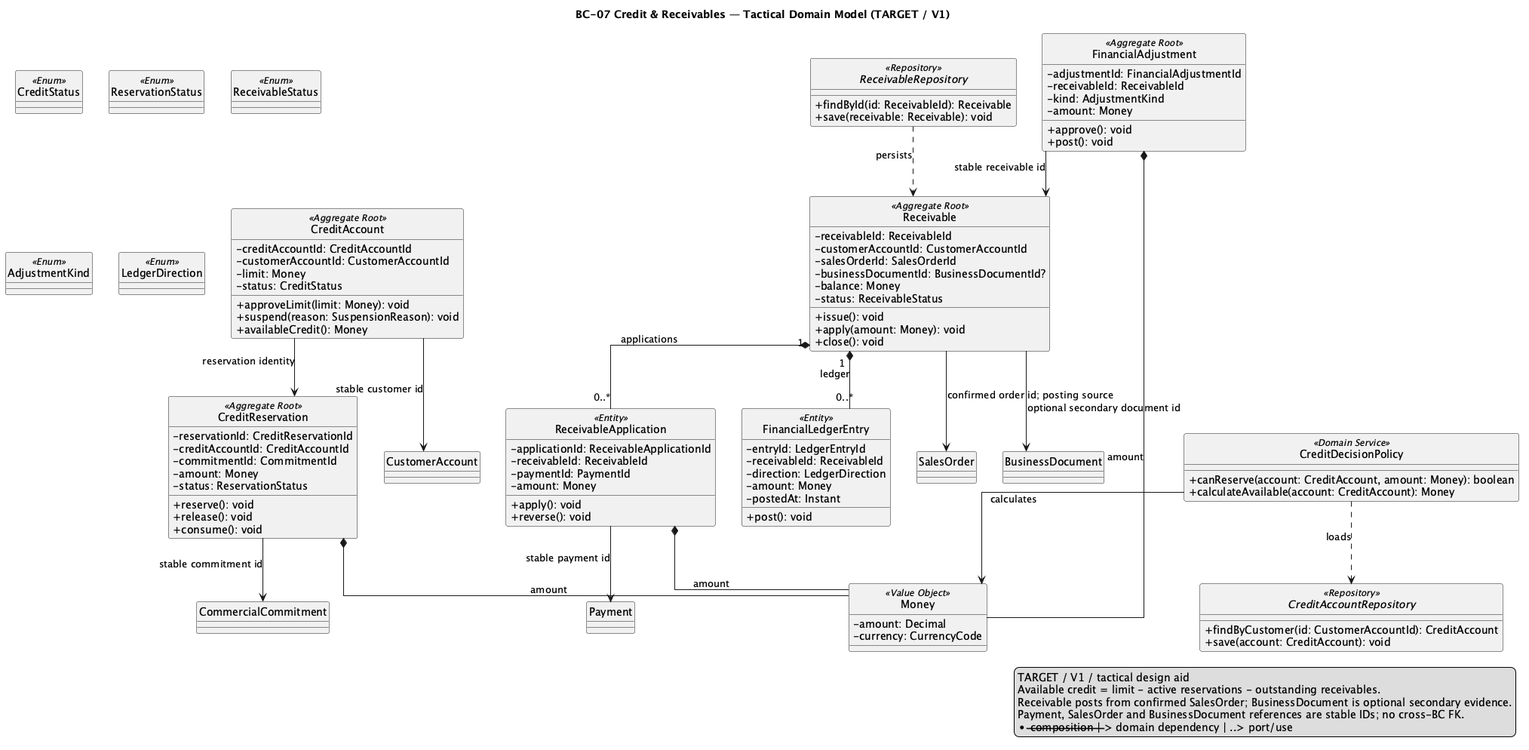
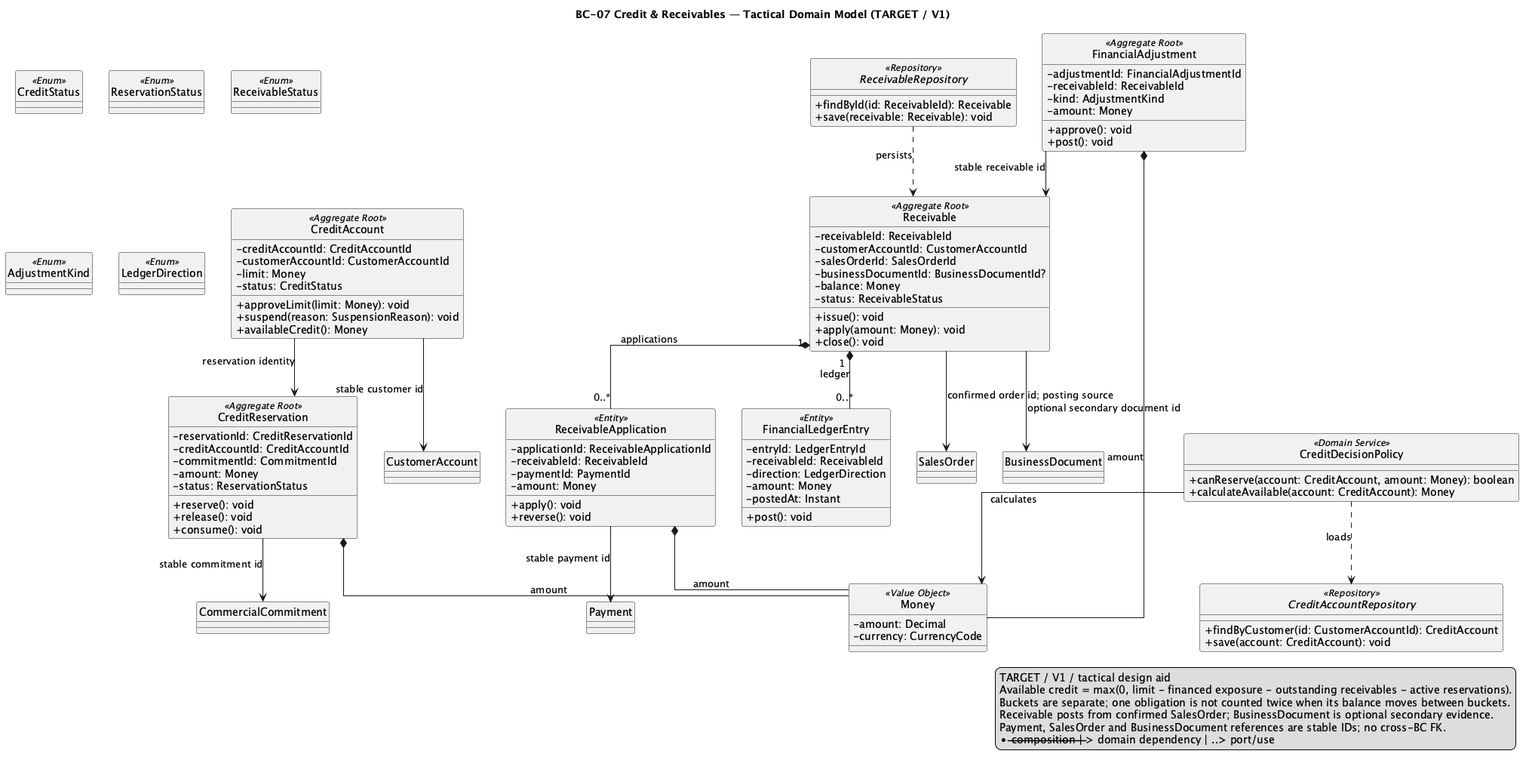
docs(domain): align credit use and workflow warehouse authority

diff --git a/01-shared/product/owner-decisions-2026-10.md b/01-shared/product/owner-decisions-2026-10.md
@@ -3,7 +3,7 @@ status: accepted
 maturity: BASELINED
 scope: cross-cutting
 owner: product
-last-reviewed: 2026-10-09
+last-reviewed: 2026-10-10
 ---
 
 # Owner decisions — 2026-10
@@ -36,6 +36,14 @@ Construction must preserve published migration history and user data. An additiv
 
 Relational models must document candidate keys and functional, multivalued and join dependencies. BCNF, 4NF and 5NF decompositions apply where those dependencies justify them and must preserve lossless reconstruction; immutable evidence snapshots remain explicitly distinguished from mutable master data. Normalization prevents update anomalies and redundancy; it does not replace authentication, authorization, database isolation or least-privilege credentials.
 
+## Credit policy configuration — Business Operations Manager and Company Owner
+
+On 2026-10-09 the Owner explicitly authorized the Business Operations Manager to configure a Customer Account's Credit Limit and activate or deactivate its Credit Account. The Owner subsequently confirmed that a Company Owner may perform the same narrowly scoped configuration under the same authority checks; the Business Operations Manager remains the primary operator and Company Owner is secondary. Both require a verified active `PLATFORM` membership, the dedicated `client.credit.configuration.manage` capability, and current Tenant/Workspace scope. The broader `client.credit.manage` capability does not itself authorize configuration. Role labels alone grant no authority.
+
+The configuration floor is the total current credit use: financed exposure plus outstanding Receivable balances plus active Credit Reservations. The Owner confirmed these are distinct outstanding buckets and must be summed; a balance shifting between financed exposure and a Receivable must not be counted twice. A lower limit beneath this total is rejected without partial change. Deactivation blocks new credit use; it does not erase Receivables, reservations or financial history.
+
+This is a narrow CAP-11 command grant and does not establish a global role hierarchy or grant authority over other Bounded Contexts. Existing reservations and receivable obligations retain their current lifecycle. The server remains authoritative for membership, capability, Tenant/Workspace scope, concurrency and the credit decision. This decision authorizes construction, not implementation, Technical Verification, Product Acceptance, System Acceptance or Production Readiness.
+
 
 ## Buyer wallet — supplier balance and separate commercial credit
 
@@ -64,3 +72,9 @@ The console is a surface over existing owners, not a twelfth Bounded Context. Pl
 ### Accepted support construction contract — 2026-10-09
 
 The Owner subsequently accepted initial customer-data support sessions restricted to read-only access, a maximum duration of one hour, explicit Company Owner consent and approval by a different named internal operator. The session must carry explicit Tenant/resource scope, immediate revocation and an immutable access audit. Impersonation, standing customer access and business mutations are excluded. Internal authentication, consent evidence, approval, expiry and fencing must be implemented and verified before any customer-data support route becomes accessible. Emergency break-glass remains governed separately by ADR-0017; this decision does not authorize bypassing its controls.
+
+## Explicit Warehouse access for SYSTEM_WORKFLOW
+
+On 2026-10-10 the Owner approved Company Owner and Tenant Administrator commands to grant and revoke Warehouse access explicitly for the active `SYSTEM_WORKFLOW` membership in the exact Tenant/Workspace. Each grant names one Warehouse; no global or automatic Warehouse grant is authorized. The target must resolve to the persisted `NEXA_AUTOMATION` identity with its active reserved `system_workflow` role.
+
+This is accepted construction TARGET. It authorizes explicit per-Warehouse access configuration only; it does not authorize impersonation, a human-issued token for the technical actor, a new system principal or automatic grant provisioning. Existing INTERNAL grant behavior remains. This decision does not establish implementation, Technical Verification, Product Acceptance, System Acceptance or Production Readiness.

diff --git a/01-shared/product/current-decisions.md b/01-shared/product/current-decisions.md
@@ -55,7 +55,8 @@ The [2026-10 Owner decisions](owner-decisions-2026-10.md) also authorize constru
 - One human has one Nexa identity. A human may have independent workforce and Buyer relationships with multiple Tenants; data remains tenant-scoped.
 - A Customer Account may exist without Portal identity. V1 allows one principal active Buyer Identity per Customer Account; multi-user Buyer organizations are future scope.
 - Buyer Relationship states are `PENDING / INVITED`, `ACTIVE`, `SUSPENDED` and `REVOKED`.
-- V1 has one Company Owner, zero or more Business Operations Managers and one Internal Web Platform. Tenant Administrator governs technical access; Company Owner governs company identity, sensitive organization data and workforce roles; Business Operations Manager governs cross-functional operations.
+- V1 has one Company Owner, zero or more Business Operations Managers and one Internal Web Platform. Tenant Administrator governs technical access; Company Owner governs company identity, sensitive organization data and workforce roles; Business Operations Manager governs cross-functional operations. The 2026-10 Owner decision grants the Business Operations Manager primary authority and Company Owner secondary authority for the narrow CAP-11 command to configure a Customer Account's Credit Limit and Credit Account active state. Both require a verified active `PLATFORM` membership, `client.credit.configuration.manage` and current Tenant/Workspace scope; this does not create a global role hierarchy. The broader `client.credit.manage` capability does not grant this configuration command.
+- Company Owner and Tenant Administrator may explicitly grant or revoke one Warehouse at a time for the exact active reserved `SYSTEM_WORKFLOW` membership representing `NEXA_AUTOMATION` in the current Tenant/Workspace. No automatic or global Warehouse grants are authorized. Existing INTERNAL grant behavior remains; this is accepted construction TARGET, not implementation or verification evidence.
 
 ## Mobile rebaseline
 
@@ -140,7 +141,7 @@ BC-07 owns the Financial Adjustment effect on obligation and exposure. BC-09 own
 
 ## Finance, documents, notifications and traceability
 
-- Available Credit = Credit Limit - Active Credit Reservations - Outstanding Receivable Balances.
+- Available Credit = Credit Limit - Financed Exposure - Outstanding Receivable Balances - Active Credit Reservations, bounded at zero. For CAP-11 configuration, used credit is the sum of those three separate current buckets; the Owner's 2026-10-09 decision confirms that a debt shift between financed exposure and a Receivable is not counted twice.
 - Credit purchase reserves credit at PR submission, or during the same logical SO confirmation for direct order. Commercial Commitment, complete Inventory Reservation backing and applicable Credit Reservation are all-or-nothing.
 - For credit/net terms, Receivable posts at Sales Order confirmation. Delivery completion or invoice issuance is not a universal receivable trigger.
 - PREPAID requires Payment Confirmed before Sales Order confirmation and physical fulfillment. IMMEDIATE may confirm SO before payment; payment is immediately due. Exact prepaid timeout is OPEN-NON-BLOCKER policy.

diff --git a/02-web/requirements/user-stories/WEB-EPIC-12-credit-receivables-payments.md b/02-web/requirements/user-stories/WEB-EPIC-12-credit-receivables-payments.md
@@ -22,12 +22,12 @@ This epic is part of the frozen Web catalog. It records product-level story iden
 | Status | CONFIRMED / V1 |
 | Product | Web |
 | Surface | Platform |
-| Actor | Business Operations Manager |
+| Actor | Business Operations Manager (primary); Company Owner (secondary) |
 | Epic | WEB-EPIC-12 — Credit, Receivables & Payments |
 | Priority | MUST |
 | Owning Bounded Context | BC-07 — Credit & Receivables |
 | Capability / family | Credit, receivables and payments |
-| Refinement | CATALOG FROZEN — ACCEPTANCE CRITERIA PENDING |
+| Refinement | ACCEPTANCE CRITERIA ACCEPTED — 2026-10-09 OWNER DECISION |
 
 ### User Story
 
@@ -35,11 +35,14 @@ As a Business Operations Manager,
 I want to configure Credit Limit,
 so that credit exposure is bounded before eligible commitments consume capacity.
 
-### Current Scope
+### Acceptance Criteria
 
-Product-level scope only; final behavior is refined against the accepted Product, DDD and business-rule canon.
+- Given a verified active `PLATFORM` membership with the canonical Business Operations Manager role (primary) or Company Owner role (secondary), current `client.credit.configuration.manage` capability and Tenant/Workspace scope, when the user opens credit configuration, then the server returns the current Credit Limit, currency, active state and separate used-credit buckets; the candidate directory returns only account id, commercial name and status. The broader `client.credit.manage` capability does not itself grant configuration authority.
+- When an authorized operator creates the first Credit Account configuration, then the request supplies an explicit currency, `If-None-Match: *` and an `Idempotency-Key`; when updating an existing configuration, it supplies the current `If-Match` version and an `Idempotency-Key`. BC-07 returns the authoritative saved values and version.
+- When a proposed Credit Limit is below financed exposure plus outstanding Receivable balances plus active Credit Reservations, then the server rejects the change without partial updates. These are distinct current buckets; a debt shift between financed exposure and a Receivable is not counted twice. Deactivation blocks new credit use but preserves existing reservations, Receivables and history.
+- When membership, capability, Tenant/Workspace scope, explicit currency or required version is missing or stale, then the API rejects the command and the UI preserves the last authoritative state for refresh. A retry reuses the same idempotency key; no client-side calculation or role label grants authority.
 
-No final Acceptance Criteria, Story Points, Sprints or academic traceability are authored in this catalog-freeze wave.
+These criteria apply the Owner-approved total-current-use floor. They do not change the reservation lifecycle, receivable posting trigger, role hierarchy, or Bounded Context ownership. Product Acceptance and later verification gates remain separate.
 
 ## WEB-US-105 — Review Customer credit exposure
 

diff --git a/01-shared/product/product-baseline.md b/01-shared/product/product-baseline.md
@@ -103,7 +103,7 @@ Fulfillment is broader than Picking: Allocate, Pick, Pack, Stage, Handover and R
 
 ## Basic Finance, documents, notifications and dashboard
 
-- V1 Finance is basic: Tenant-specific Credit Limit, Credit Reserved, Outstanding Receivables and Available Credit, hard credit block, payment terms, payment recording, Stripe-backed Nexa online payment direction and external/manual payment representation where needed. `Available Credit = Credit Limit - Credit Reserved - Outstanding Receivables`; transition from Credit Reserved to Outstanding Receivables must not double-count. If online money is captured but Sales Order creation fails, record `UNALLOCATED / RECONCILIATION_REQUIRED`, attempt an automatic refund, resolve on refund success or require operational intervention on refund failure, and retain financial history. Payment reported is not payment confirmed. Payment is not Stripe; V1 is not an arbitrary bring-your-own-online-gateway platform. Commercial credit, bank transfer, cash/COD and other direct Tenant-supported arrangements remain valid business methods.
+- V1 Finance is basic: Tenant-specific Credit Limit, financed exposure, Credit Reserved, Outstanding Receivables and Available Credit, hard credit block, payment terms, payment recording, Stripe-backed Nexa online payment direction and external/manual payment representation where needed. `Available Credit = max(0, Credit Limit - Financed Exposure - Outstanding Receivables - Active Credit Reservations)`; these are separate current-use buckets, and one obligation must not be counted twice when its balance moves between buckets. If online money is captured but Sales Order creation fails, record `UNALLOCATED / RECONCILIATION_REQUIRED`, attempt an automatic refund, resolve on refund success or require operational intervention on refund failure, and retain financial history. Payment reported is not payment confirmed. Payment is not Stripe; V1 is not an arbitrary bring-your-own-online-gateway platform. Commercial credit, bank transfer, cash/COD and other direct Tenant-supported arrangements remain valid business methods.
 - Buyer Portal exposes live Tenant-specific Credit Limit, Credit Reserved, Outstanding Receivables and Available Credit for the current supplier relationship. Buyer has no global Nexa-wide credit balance. Insufficient Available Credit remains a hard block. Existing implementation fields named `exposure` or `used` are AS-IS vocabulary, not the final Product model.
 - Full accounting, reconciliation, bank reconciliation, advanced receivables, statements and allocation/accounting depth are V2 unless later required.
 - V1 includes basic business documents. Historical document meaning must not depend on mutable master data; document snapshots/history preserve truth at issuance time. PDF may be regenerated from historical snapshot. SUNAT remains future.

diff --git a/01-shared/product/role-capability-matrix.md b/01-shared/product/role-capability-matrix.md
@@ -29,7 +29,7 @@ by the Website/onboarding boundary and are not workforce role columns here.
 | CAP-08 Receiving and warehouse operations | EXCEPTION AUTHORITY | NONE | OVERSIGHT | NONE | COMMAND; EXCEPTION AUTHORITY | QUERY | NONE | NONE |
 | CAP-09 Fulfillment, dispatch and delivery | OVERSIGHT | NONE | OVERSIGHT | QUERY | COMMAND; QUERY | COMMAND; EXCEPTION AUTHORITY | COMMAND; QUERY | QUERY |
 | CAP-10 Cold-chain evidence and disposition | EXCEPTION AUTHORITY | NONE | OVERSIGHT | NONE | COMMAND; EXCEPTION AUTHORITY | COMMAND; QUERY | COMMAND; QUERY | QUERY |
-| CAP-11 Credit and receivables | EXCEPTION AUTHORITY; OVERSIGHT | NONE | OVERSIGHT | QUERY | NONE | NONE | NONE | QUERY |
+| CAP-11 Credit and receivables | COMMAND*; EXCEPTION AUTHORITY; OVERSIGHT | NONE | COMMAND; OVERSIGHT | QUERY | NONE | NONE | NONE | QUERY |
 | CAP-12 Payments and correction | EXCEPTION AUTHORITY; OVERSIGHT | NONE | OVERSIGHT | QUERY | NONE | NONE | NONE | COMMAND; QUERY |
 | CAP-13 Business documents | OVERSIGHT | NONE | OVERSIGHT | QUERY | QUERY | QUERY | QUERY | QUERY |
 | CAP-14 Notifications | OVERSIGHT | COMMAND; OVERSIGHT | QUERY | QUERY | QUERY | QUERY | QUERY | QUERY |
@@ -46,5 +46,6 @@ by the Website/onboarding boundary and are not workforce role columns here.
 - Driver authority is limited to assigned Delivery work. Buyer authority is
   limited to the authorized supplier relationship.
 - Finance is a capability responsibility, not a new actor or Bounded Context.
+- CAP-11 configuration command is limited to configuring a Customer Account's Credit Limit and activating or deactivating its Credit Account under the [2026-10 Owner decision](owner-decisions-2026-10.md). Business Operations Manager is the primary operator; Company Owner is secondary. Both require verified active `PLATFORM` membership, `client.credit.configuration.manage` and current Tenant/Workspace scope. The broader `client.credit.manage` capability does not grant this configuration command. `*` marks this narrow Company Owner command; it grants no general role inheritance or cross-context authority.
 - The matrix is a target authorization projection. Current implementation
   support is recorded in [the compatibility baseline](../../04-delivery/compatibility-baseline-2026-08-29.md).

diff --git a/01-shared/domain/bounded-contexts/BC-07-credit-receivables/tactical-model.md b/01-shared/domain/bounded-contexts/BC-07-credit-receivables/tactical-model.md
@@ -43,7 +43,7 @@ coordinates BC-08 and BC-07 without a giant cross-context aggregate.
 | `FinancialLedgerEntry` | Entity / immutable fact | type, source ID, amount, occurredAt, correlation | none after append | durable financial history |
 | `Money` / `CreditLimit` | Value Objects | amount, currency/limit | `subtract()`, `isSufficient()` | no negative balance |
 | `ReceivableStatus` / `ReservationStatus` | Enum | `OPEN`, `PARTIALLY_SETTLED`, `SETTLED`, `WRITTEN_OFF`; `ACTIVE`, `RELEASED`, `CONSUMED`, `EXPIRED` | none | lifecycle constraints |
-| `CreditExposurePolicy` | Domain Service | none | `calculateAvailable(limit, reservations, receivables)` | formula authority |
+| `CreditExposurePolicy` | Domain Service | none | `calculateAvailable(limit, financedExposure, receivables, reservations)` | formula authority |
 | `ReceivablePostingPolicy` | Domain Service | none | `postAtSalesOrderConfirmation()` | policy, no source aggregate ownership |
 | `CreditAccountRepository` / `ReceivableRepository` | Repository interfaces | none | `save()`, `byId()` | roots only |
 | `CreditReservationEstablished` / `ReceivablePosted` | Domain Events | IDs, amount, occurredAt | immutable facts | existing published events only |
@@ -79,8 +79,10 @@ coordinates BC-08 and BC-07 without a giant cross-context aggregate.
 
 ## Invariants and transaction boundaries
 
-- Available Credit = Credit Limit − Active Credit Reservations − Outstanding
-  Receivable Balances.
+- Available Credit = max(0, Credit Limit − Financed Exposure − Outstanding
+  Receivable Balances − Active Credit Reservations). These are separate
+  current-use buckets; one obligation is not counted twice when its balance
+  moves between buckets.
 - Credit purchase reserves at PR submission; direct order reserves during same
   logical SO confirmation.
 - Credit/net Receivable posts at SO confirmation. Delivery completion or

diff --git a/01-shared/domain/bounded-contexts/BC-07-credit-receivables/README.md b/01-shared/domain/bounded-contexts/BC-07-credit-receivables/README.md
@@ -13,7 +13,7 @@ last-reviewed: 2026-09-20
 | Purpose / classification | Owns credit risk, reservation, formal obligation and correction; Supporting. Strategic importance: protects commercial acceptance and financial consistency. |
 | Language / actors | Credit Account, Credit Limit, Credit Reservation, Available Credit, Receivable, Financial Adjustment. Actors: Business Operations Manager, Sales Representative, B2B Buyer. |
 | Responsibilities / data | Credit policy, reservations, available credit formula, Receivable posting at confirmed SalesOrder/application and explicit financial corrections; BusinessDocument reference is secondary and optional. |
-| Invariants | Available Credit is explicit; reservation and receivable do not double count; corrections preserve history; Payment != Receivable. |
+| Invariants | Available Credit = max(0, Credit Limit - Financed Exposure - Outstanding Receivable Balances - Active Credit Reservations); these are separate current-use buckets, and one obligation is not counted twice when its balance moves between buckets; corrections preserve history; Payment != Receivable. |
 | Commands | SetCreditLimit, EvaluateCredit, EstablishCreditReservation, ConvertReservationToReceivable, ApplyPayment, ReleaseCredit, RecordFinancialAdjustment. |
 | Domain / published events | Internal: CreditEvaluated, CreditReservationReleased, PaymentApplied, FinancialAdjustmentRecorded. Published: CreditReservationEstablished.v1, ReceivablePosted.v1. |
 | Upstream / downstream | Upstream: Sales Commitment and Payments facts. Downstream: Sales Commitment, Documents, Portal/Platform and Traceability. Sync: reservation decision; async: payment/receivable announcements. |

diff --git a/01-shared/data/data-architecture.md b/01-shared/data/data-architecture.md
@@ -38,7 +38,7 @@ Financial Adjustment business effect belongs to Credit & Receivables; an issued 
 - Submitted PR and confirmed SO retain price, terms, line, delivery and commercial snapshots. Inventory facts retain lot, expiry, quantity, hold/disposition and allocation evidence. Payment and document facts retain provider/reference identity without secrets.
 - `Sellable Availability = usable physical on-hand - active Commercial Commitments - Safety Stock` at business scope. Inventory Reservation backing distributes protected demand across SKU + Warehouse authorities without double counting. HOLD, QUARANTINE, DAMAGED/WASTE, EXPIRED and IN_TRANSIT are excluded from usable sellable quantity.
 - Inventory Availability owns Inventory Reservation backing, deterministic Warehouse sourcing and Physical Allocation authority; Fulfillment & Delivery owns execution. One demand line may be backed by multiple eligible Warehouses. Physical Allocation cannot exceed committed/backed quantity or usable physical quantity.
-- Credit formula is `Credit Limit - Active Credit Reservations - Outstanding Receivable Balances`. Reservation-to-receivable transition is explicit and cannot double count.
+- Available Credit is `max(0, Credit Limit - Financed Exposure - Outstanding Receivable Balances - Active Credit Reservations)`. These are separate current-use buckets; one obligation must not be counted twice when its balance moves between buckets.
 - Append-only traceability and issued documents preserve history. Retention/deletion/anonymization periods are Production/Legal Gate decisions; no destructive deletion is assumed.
 
 ## Migration policy

diff --git a/01-shared/domain/business-rules/README.md b/01-shared/domain/business-rules/README.md
@@ -50,7 +50,7 @@ Canonical V1 invariants. Ownership and lifecycle details are in [Strategic DDD](
 ## Cold-chain, credit, payments and finance
 
 - Cold-chain is optional per Tenant/SKU. V1 temperature capture is manual. Excursion places affected quantity on HOLD pending `ColdChainDisposition`. `REJECT` means inventory is not accepted for normal sellable/fulfillment use; `RETURN_TO_SUPPLIER` is a possible physical action after that outcome. No automatic destruction.
-- Available Credit = Credit Limit - Active Credit Reservations - Outstanding Receivable Balances. Reservations and receivables must not double count.
+- Available Credit = max(0, Credit Limit - Financed Exposure - Outstanding Receivable Balances - Active Credit Reservations). These are separate current-use buckets; one obligation must not be counted twice when its balance moves between buckets.
 - Credit purchase reserves at PR submission; direct order reserves during same SO confirmation. Commitment and credit reservation are all-or-nothing.
 - Credit/net Receivable posts at Sales Order confirmation. Delivery or document issuance is not a universal trigger.
 - PREPAID requires Payment Confirmed before Sales Order confirmation and physical fulfillment. IMMEDIATE permits SO before payment. Payment is distinct from Receivable, Credit and Stripe.

diff --git a/01-shared/product/vision/v1-scope.md b/01-shared/product/vision/v1-scope.md
@@ -58,7 +58,7 @@ Expiration, FEFO, storage constraints, distinct HOLD/QUARANTINE states, traceabi
 
 ### Basic credit and payments
 
-Tenant-specific Credit Limit, Credit Reserved, Outstanding Receivables and Available Credit exposed live in Buyer Portal for current supplier relationship, with `Available Credit = Credit Limit - Credit Reserved - Outstanding Receivables`, hard block when unavailable, payment terms, payment recording, Stripe-backed Nexa online-payment direction and external/manual payment representation. No global Buyer credit balance. Full accounting, reconciliation and advanced receivables are future.
+Tenant-specific Credit Limit, financed exposure, Credit Reserved, Outstanding Receivables and Available Credit exposed live in Buyer Portal for current supplier relationship, with `Available Credit = max(0, Credit Limit - Financed Exposure - Outstanding Receivables - Active Credit Reservations)`, hard block when unavailable, payment terms, payment recording, Stripe-backed Nexa online-payment direction and external/manual payment representation. These are separate current-use buckets; one obligation is not counted twice when its balance moves between buckets. No global Buyer credit balance. Full accounting, reconciliation and advanced receivables are future.
 
 ### Basic documents
 

diff --git a/01-shared/domain/bounded-contexts/BC-07-credit-receivables/data/data-model.md b/01-shared/domain/bounded-contexts/BC-07-credit-receivables/data/data-model.md
@@ -21,8 +21,11 @@ Visual ERD: [PlantUML](database-diagram.puml) · [SVG](database-diagram.svg) · 
 | `financial_ledger_entry` | `entry_id`; receivable/adjustment/application FK | append-only ledger fact |
 
 SQL defines money precision/currency, PK/FK, NOT NULL, amount/status checks,
-uniques and due/ledger indexes. RLS scopes tenant/workspace. Available credit
-is a domain calculation, not a denormalized authority column. A Receivable is
+uniques and due/ledger indexes. RLS scopes tenant/workspace. Available Credit is
+`max(0, Credit Limit - Financed Exposure - Outstanding Receivable Balances - Active Credit Reservations)`;
+these are separate current-use buckets, and one obligation is not counted twice
+when its balance moves between buckets. Available credit is a domain calculation,
+not a denormalized authority column. A Receivable is
 posted from confirmed `sales_order_id`; `business_document_id` is a secondary,
 optional reference and neither delivery completion nor document issuance is a
 universal posting trigger.

diff --git a/01-shared/domain/ubiquitous-language/glossary.md b/01-shared/domain/ubiquitous-language/glossary.md
@@ -51,7 +51,7 @@ explicit translation contract.
 | RETURN_TO_SUPPLIER | possible physical action after an authorized rejected outcome | rejection outcome or automatic workflow |
 | HOLD | non-sellable pending disposition | Quarantine, Waste or Release |
 | Credit Reservation | credit amount reserved for active commercial demand | Outstanding Receivable |
-| Available Credit | Credit Limit - Credit Reservations - Outstanding Receivables | global Buyer balance or `exposure`/`used` |
+| Available Credit | max(0, Credit Limit - Financed Exposure - Outstanding Receivables - Active Credit Reservations) | global Buyer balance or `exposure`/`used` |
 | Receivable | formal commercial debt/claim posted at accepted trigger | Payment or document rendering |
 | Payment | business money movement/report/confirmation lifecycle | Stripe provider or Receivable |
 | Payment Report | external/manual payment claim awaiting handling | Payment Confirmed |
